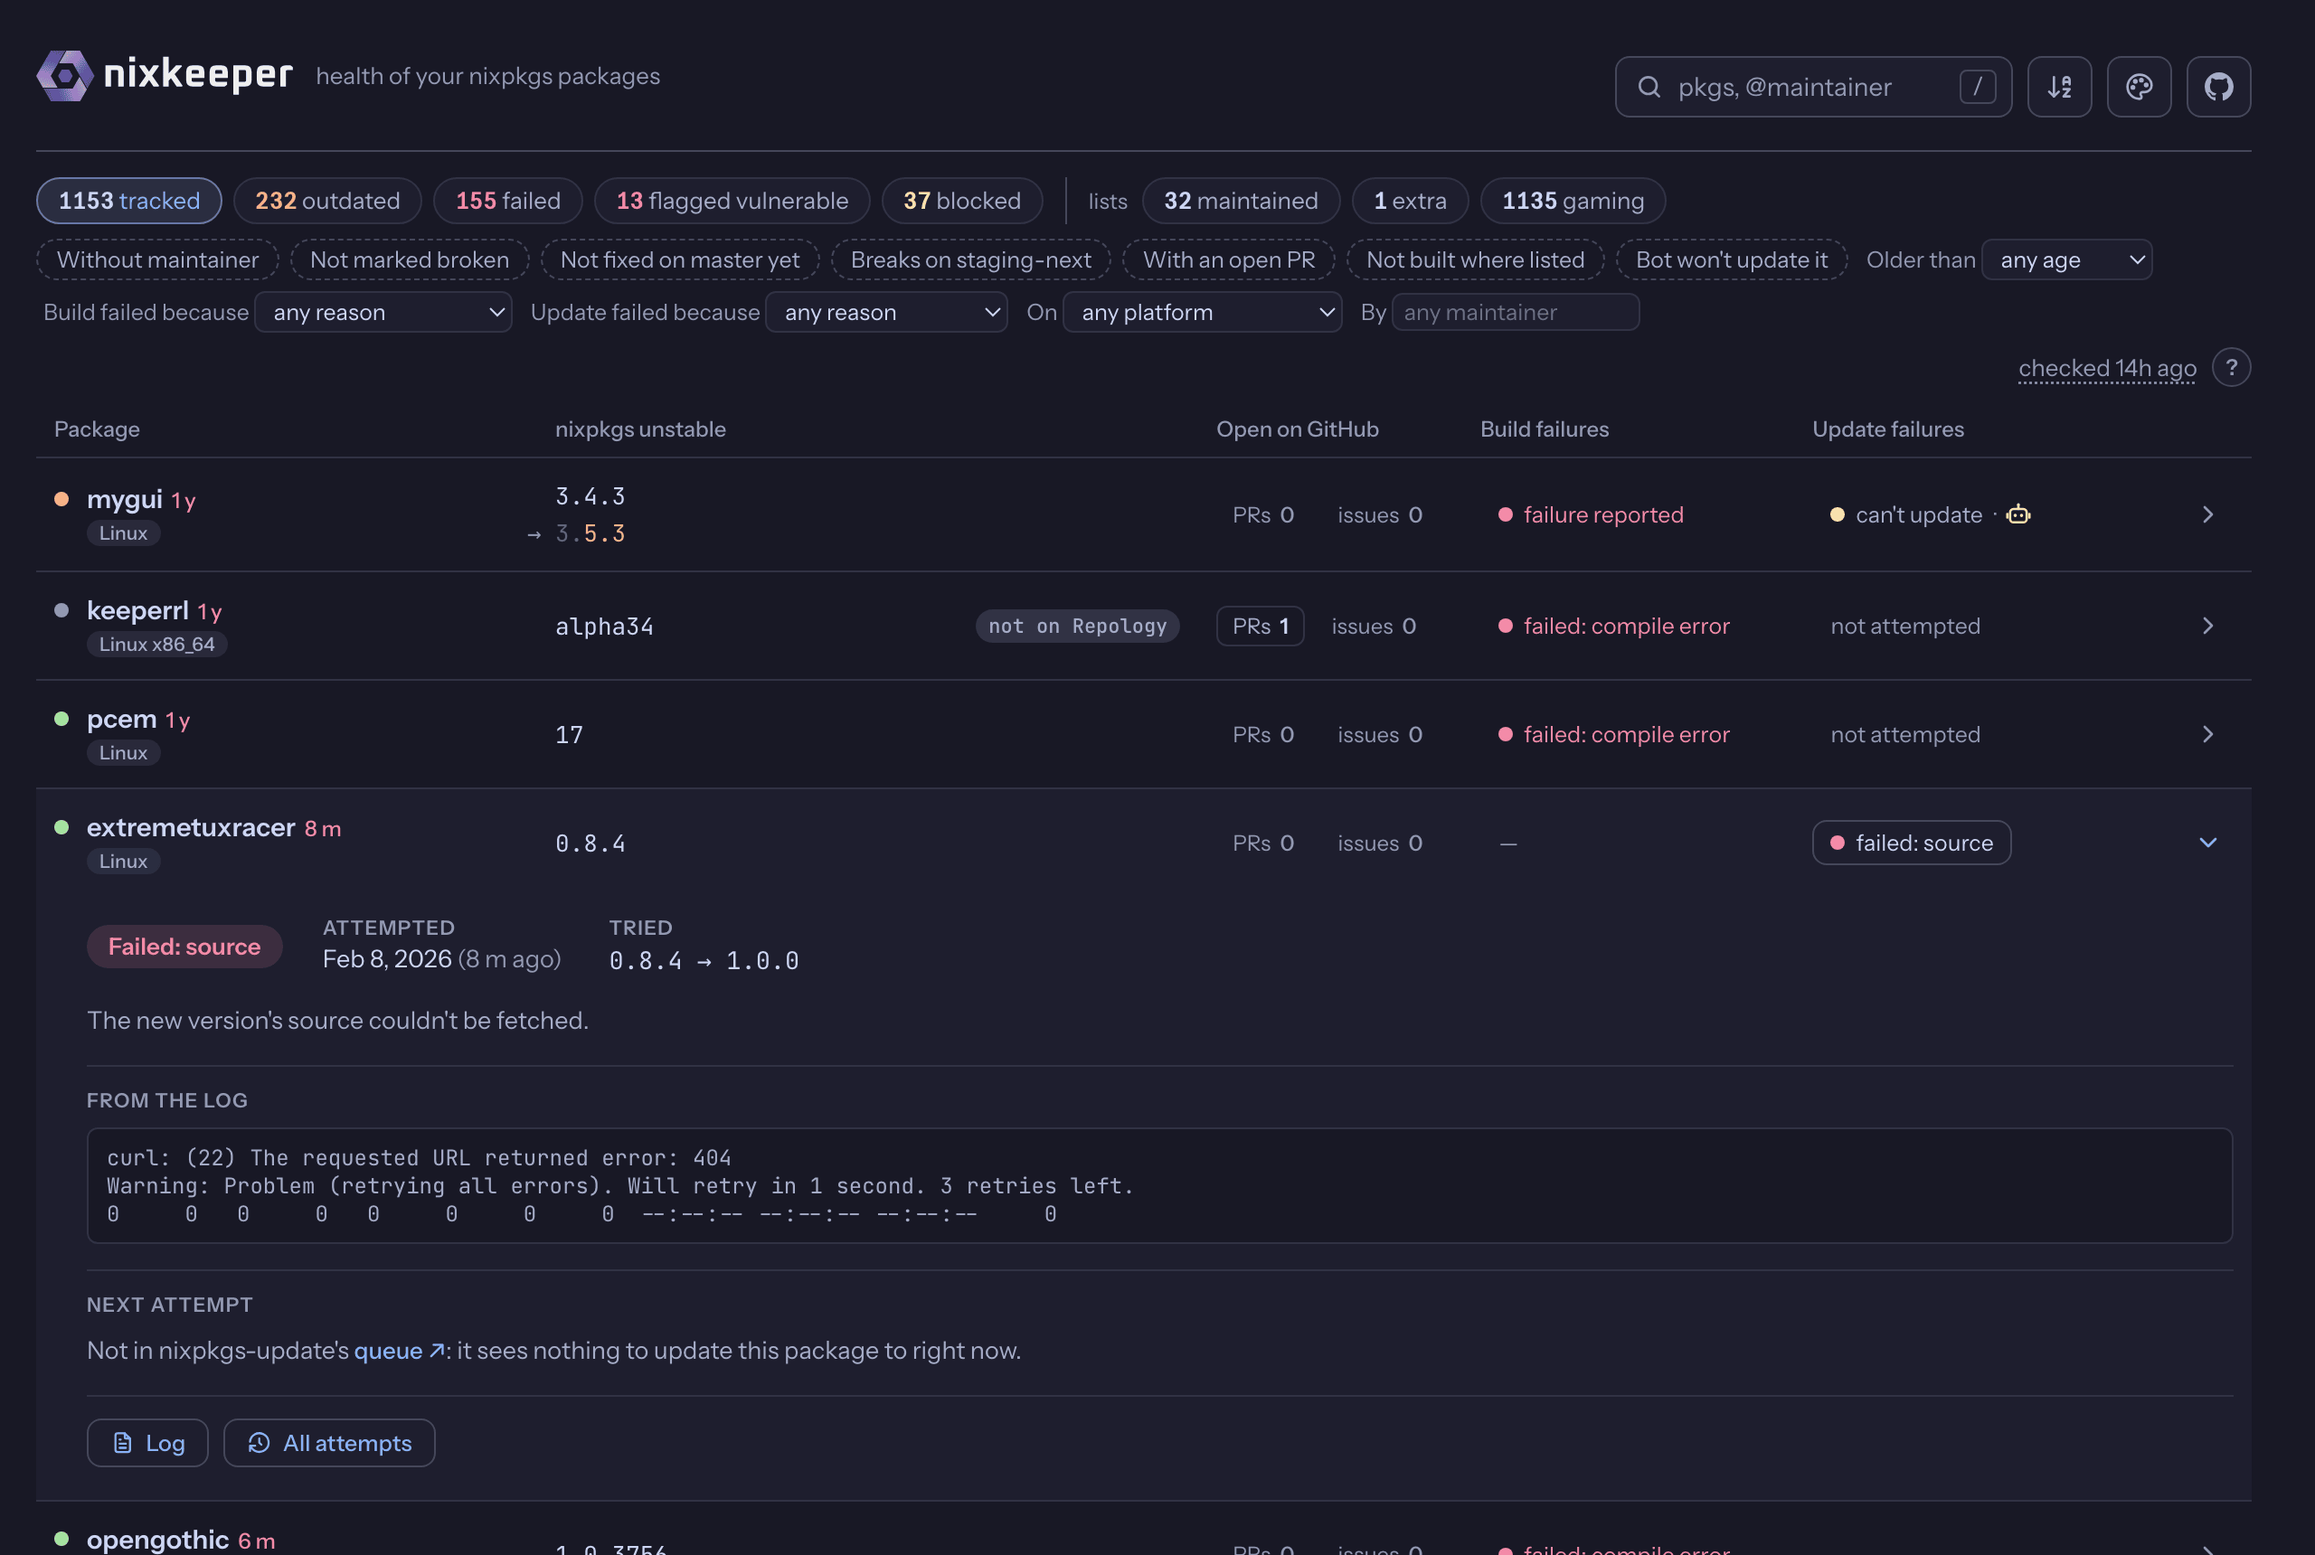
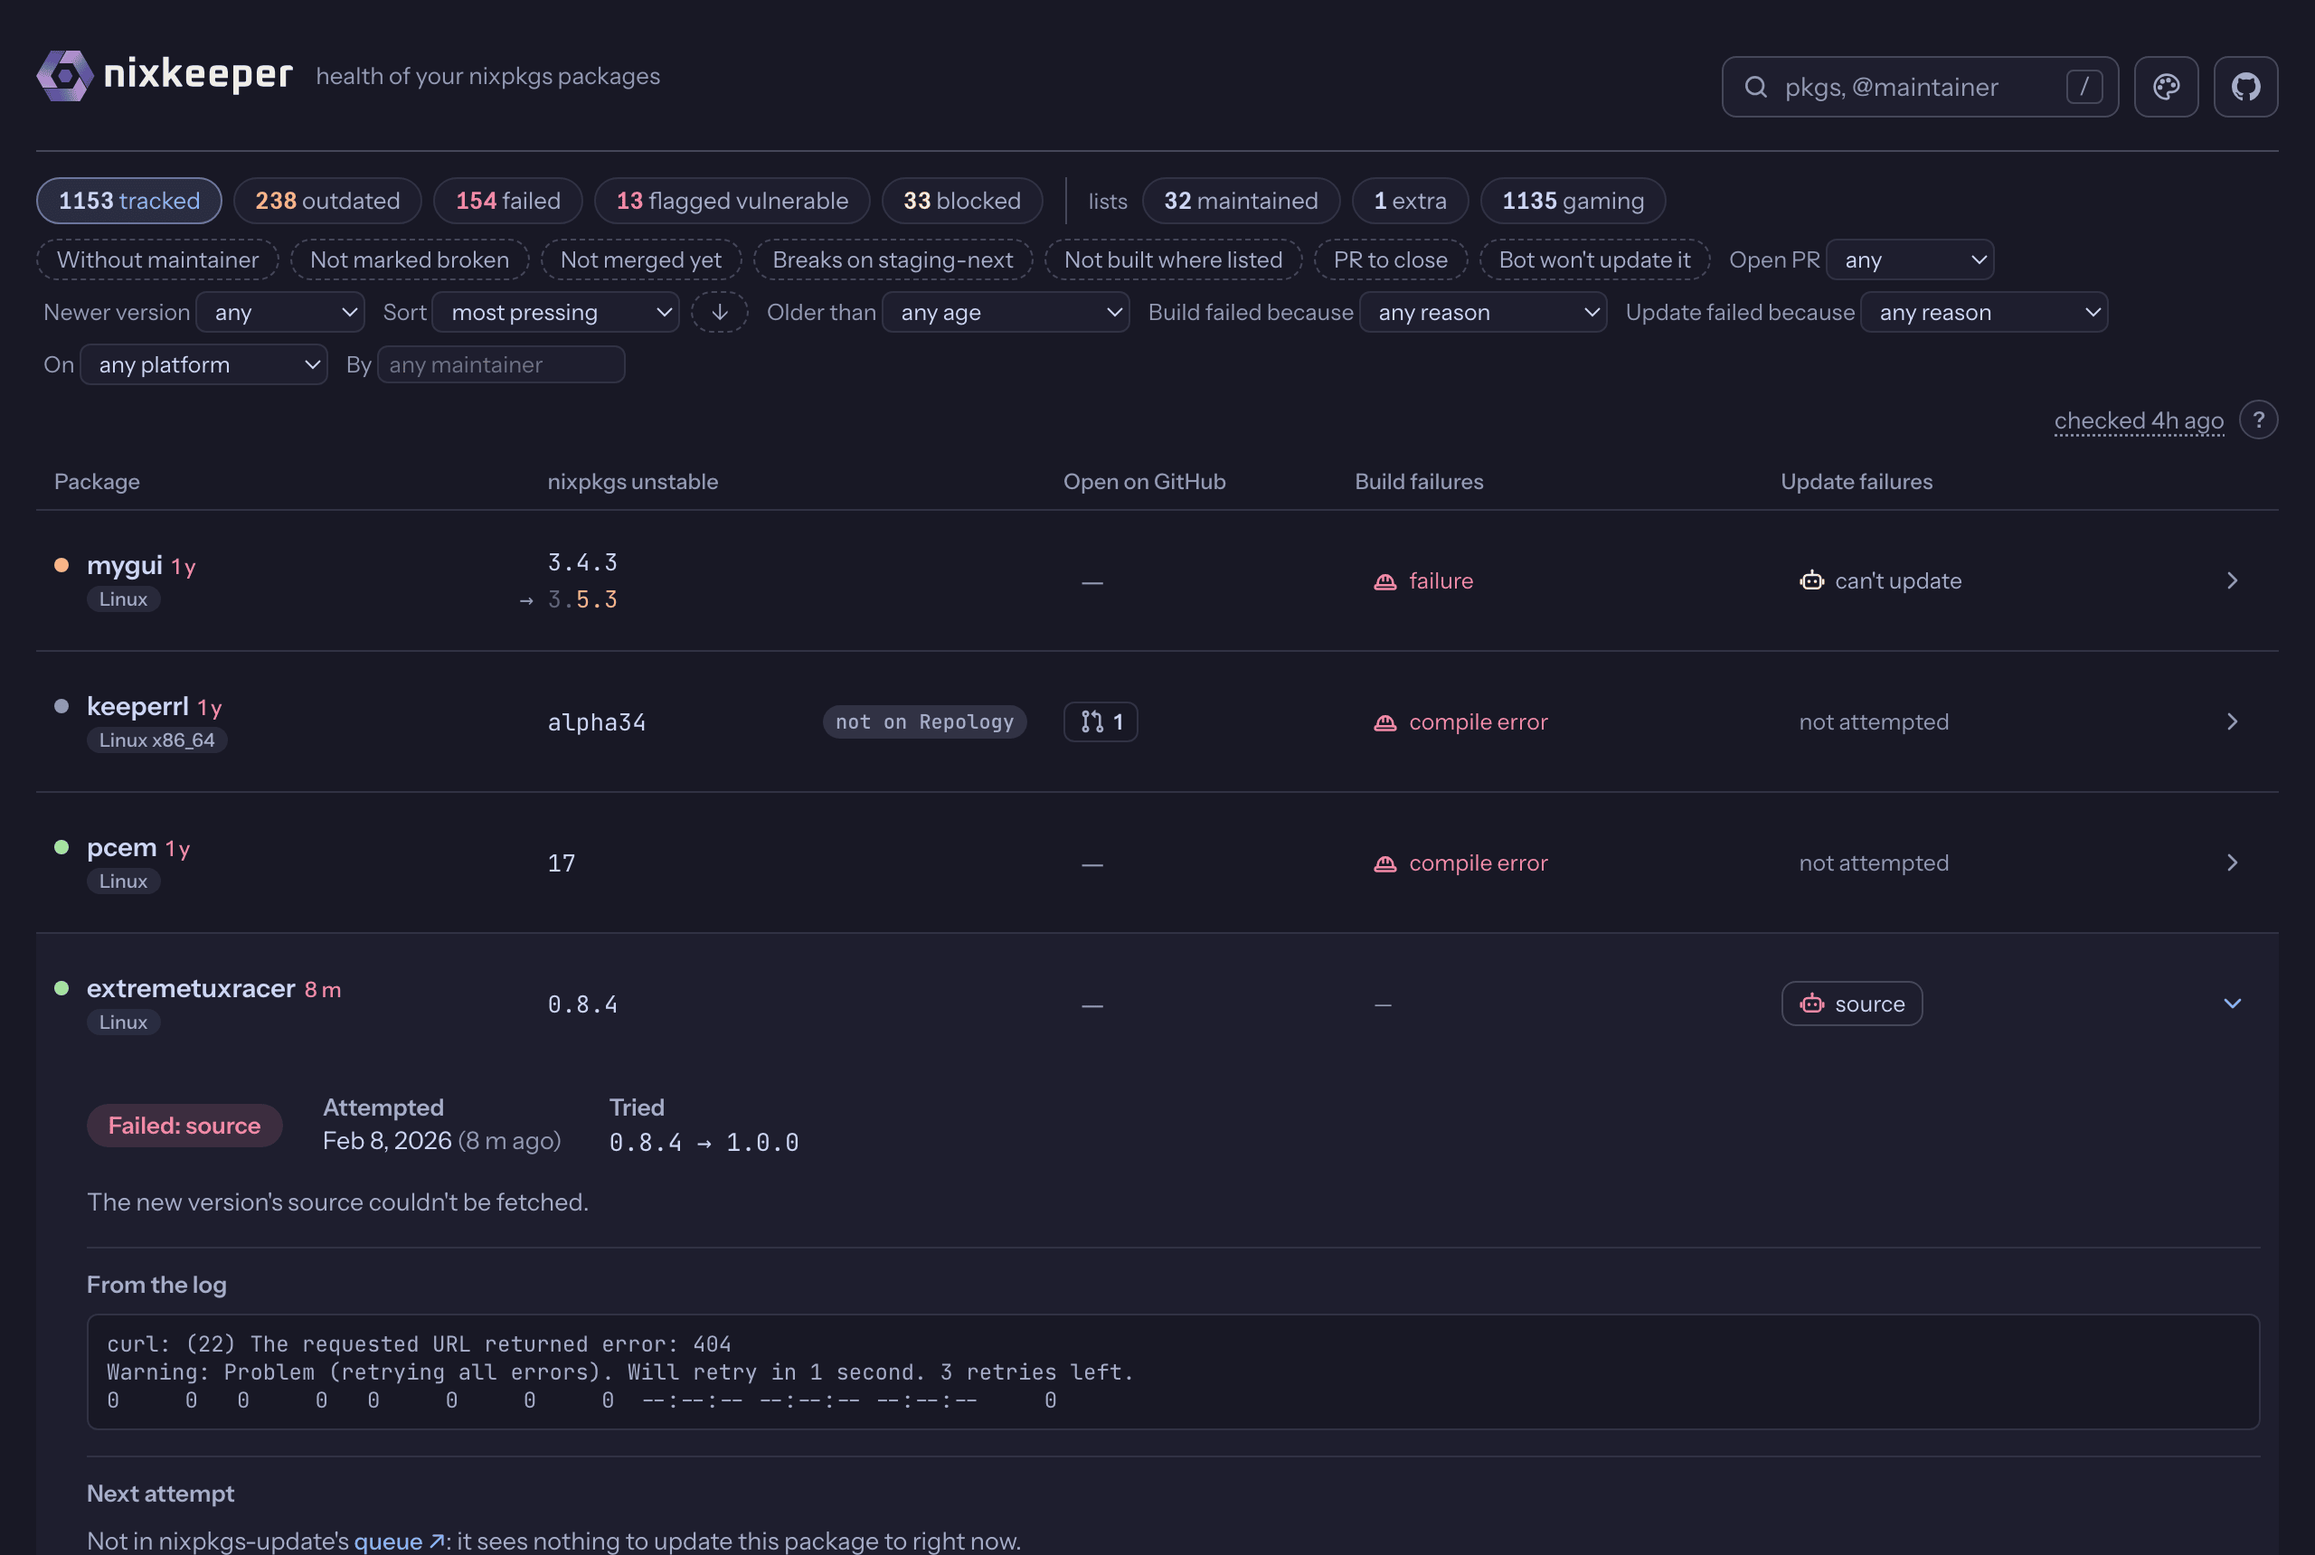
assets: screenshots of this release's page, phones without a scrollbar (#303)

diff --git a/CHANGELOG.md b/CHANGELOG.md
@@ -132,7 +132,10 @@ The version lives in `pyproject.toml`; `flake.nix` reads it from there.
   maintainer and team". An instance of its own lists says "health of your
   nixpkgs packages" (set once its data loads; link previews show
   index.html's).
-- Screenshots retaken with the new lines. Link previews of nixkeeper.com
+- Screenshots retaken (again on 2026-10-23, with the page as this release
+  has it), the phone ones without the white strip down their right edge
+  (the page's scrollbar in their frame, which `--hide-scrollbars` didn't
+  hide). Link previews of nixkeeper.com
   and the release notes' card show the overview's social preview
   ("Health dashboard for every nixpkgs package"); the list's says
   "Health dashboard for your nixpkgs packages".
